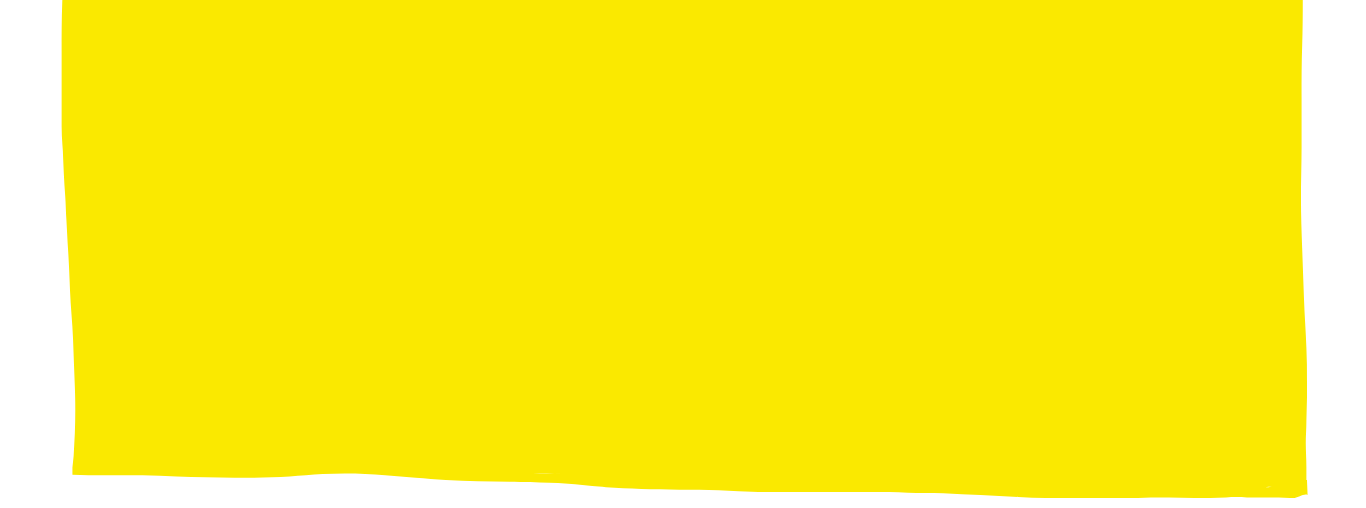
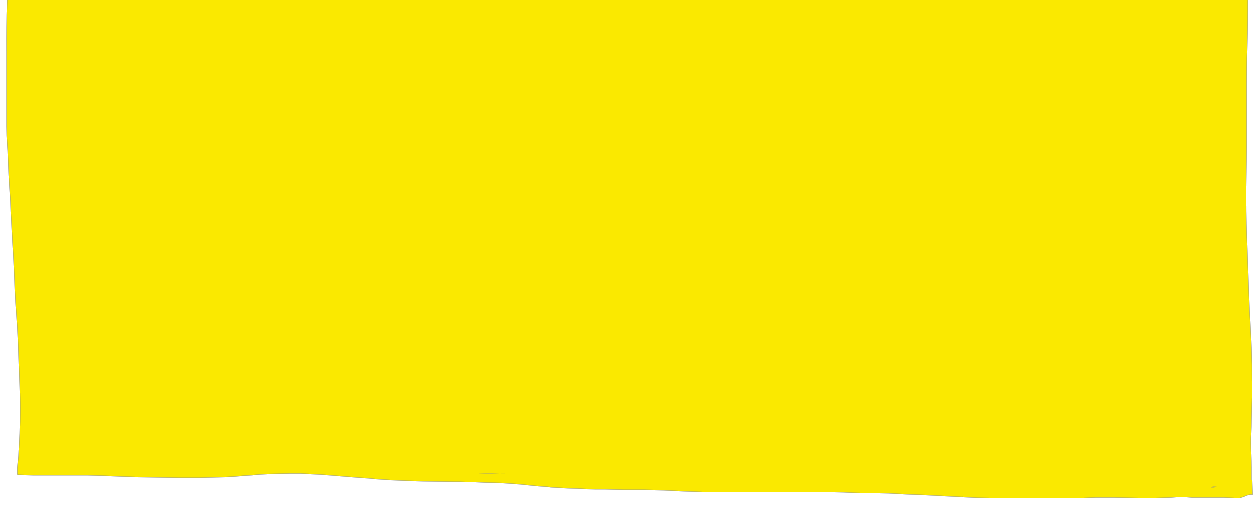
Yellow blocks for "Who we are" size and position

diff --git a/style.css b/style.css
@@ -68,4 +68,29 @@ div.WhiteBox {
     z-index:2;
     margin-top: -462px;
     position: relative;
+    padding: 52px;
+    display:flex;
+    flex-direction:row;
+    justify-content:space-around;
 }
+
+div.YellowRectangleContainer img {
+    position:relative;
+    z-index:3;
+    width: 744px;
+    height: 277px;
+}
+
+div.YellowSquareContainer {
+    width: min-content;
+    top: -13px;
+    position: relative;
+}
+div.YellowSquareContainer img {
+    position:relative;
+    z-index:3;
+    width: 333px;
+    height: 311px;
+}
+
+

diff --git a/index.html b/index.html
@@ -36,6 +36,13 @@
 
         <div class="WhiteBox">
             
+            <div class="YellowRectangleContainer">
+                <img src="Images/YellowRectangle.png">
+            </div>
+
+            <div class="YellowSquareContainer">
+                <img src="Images/YellowSquareWithOutline.png">
+            </div>
         </div>
     </main>
 </body>
